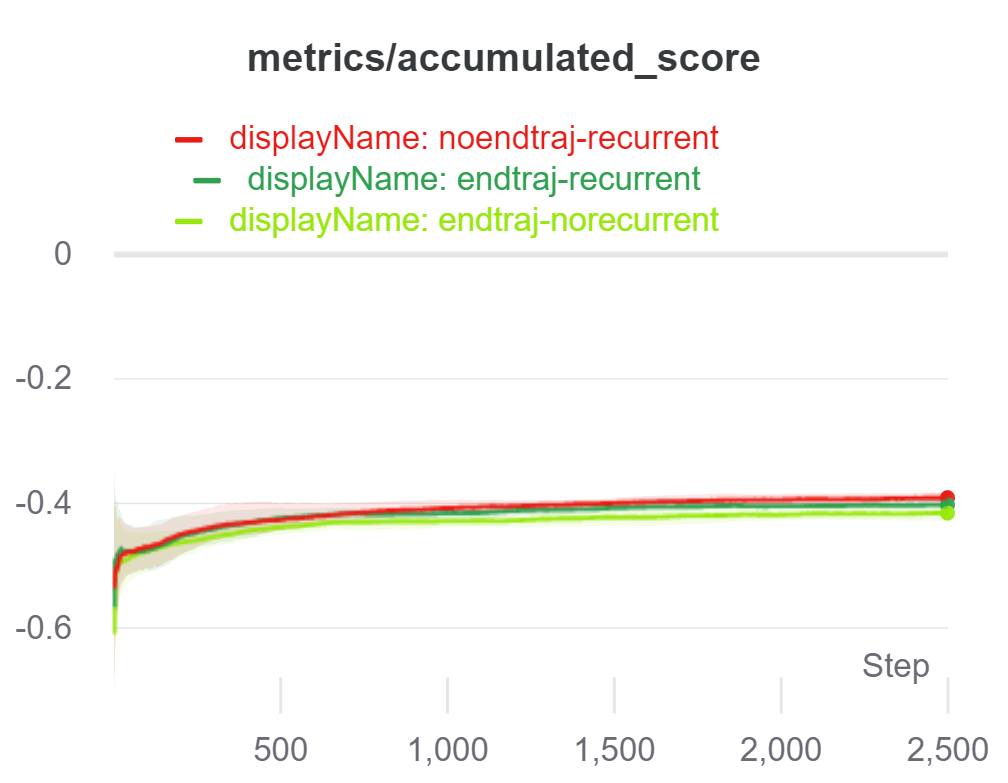
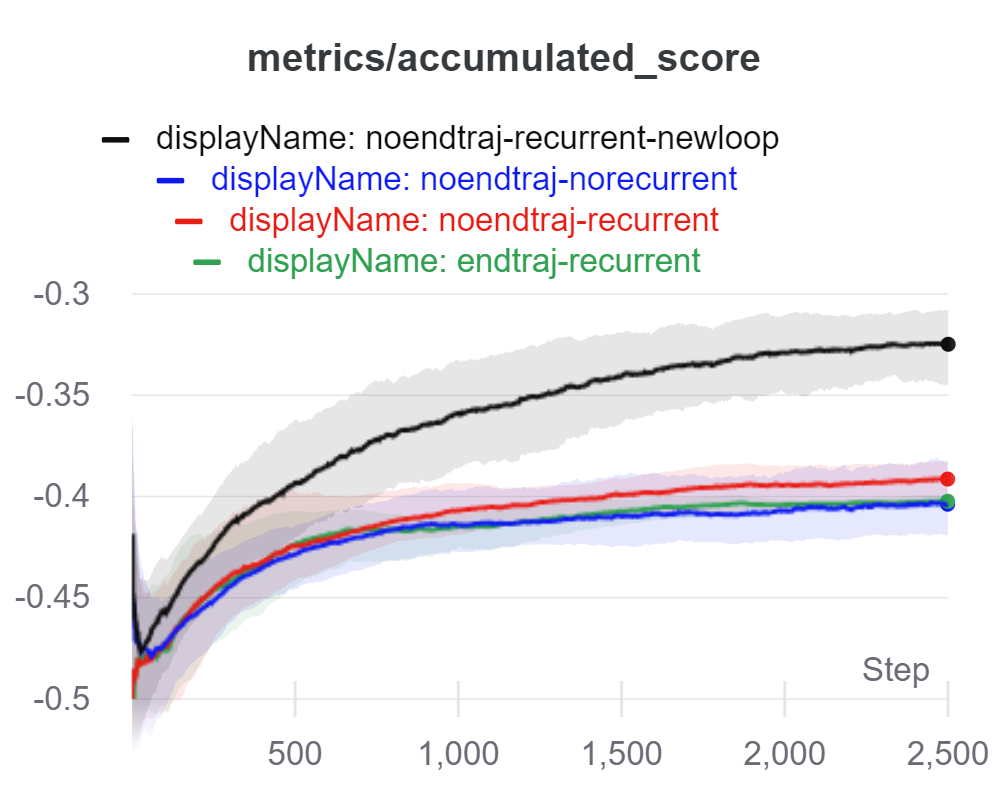
report: test psppo.

diff --git a/report/project_report.tex b/report/project_report.tex
@@ -786,7 +786,9 @@ The entropy coefficient is a regularizer which helps preventing premature conver
 A policy has maximum entropy when all policies are equally likely and minimum when the one action probability of the policy is dominant.
 
 \subsection{Testing}\label{subsec:testing}
-
+~\newline
+\href{https://wandb.ai/fiorenzoparascandolo/flatland-challenge-ps-ppo-test?workspace=user-fiorenzoparascandolo}{Project page}.\\
+\\
 PS-PPO hyperparameters legend:
 \begin{itemize}
 	\item Network Architecture
@@ -911,8 +913,18 @@ This approach does not seem really correct but brings an improvement in performa
 \item "endtraj-norecurrent" is the best of the test described above.
 \item "end-traj-recurrent" is the same test with LSTM.
 \item "noendtraj-recurrent" is the test with LSTM with the different interpretation of the trajectory. 
+\item "noendtraj-recurrent-newloop" is a test we ran later based on the same hyperparameters of "noendtraj-recurrent" as the name suggests with a change in the loop. For each step of the environment, Flatland provided various information on the status of each agent including "action\_required". 
+In the baselines this information is used to select the steps in which the action of an agent must be calculated by the neural network (and in our implementation, then this happens, the memory is also updated with the observation that produced the action). 
+We realized that using only this information has limitations: for some deadlocks situations "action\_required" is false while for others it is not, therefore from a trajectory construction point of view, this logic immplies the presence of more serious deadlocks (whose observations must be added in memory until the end of the episode) and deadlocks less severe (whose observation is added only once in memory). 
+Therefore the change, at the base of this experiment, consists in imposing that the actions are calculated by the neural network (and the relative observations added in memory), if the agent is not deadlocked (with "action\_required" true) or if it has entered deadlock in the last step. 
+This logic has two advantages: 
+\begin{enumerate}
+\item [1.] Redundant observations from deadlocks that have "action\_required" true are not considered.
+\item [2.] When an agent goes into deadlock the memory is updated apriori, this is very important in the case of agents with speeds less than 1, infact, according to the previous logic, if the deadlock occurred while an agent was walking through a fraction of the cell, "action\_required" was false and the memory was not updated with the observation of the deadlock (this is particularly limiting when using Rewards Shaping).
+\end{enumerate}
 \end{itemize}
 
+As you can see the modification of the loop, in combination with LSTM, brings about a noticeable improvement. \\
 \includegraphics[width=0.33\linewidth]{resources/charts_psppo_2/score}
 \includegraphics[width=0.33\linewidth]{resources/charts_psppo_2/completion}
 \includegraphics[width=0.33\linewidth]{resources/charts_psppo_2/deadlocks}
